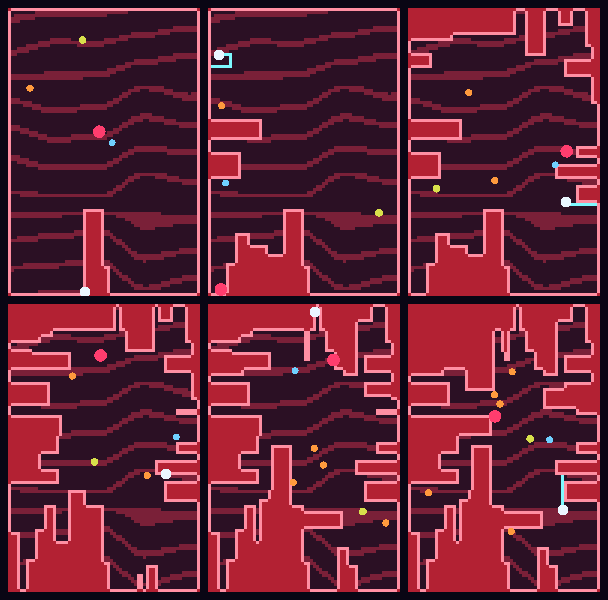
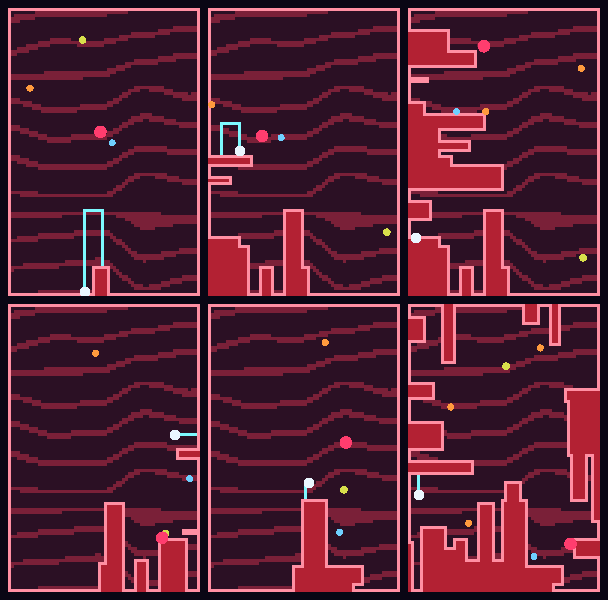
Köşelerde takılmayı düzelt: çaprazdan boşluğa değen hücre de kenar
Gemi yalnızca kenar hücrelerinde yürüyor, ama kenar tanımı yalnızca dört
komşuya bakıyordu. Boşluğa sadece çaprazdan değen dolu hücreler kenar
sayılmadığı için iki takılma vardı:

- Alan kapatılınca: iz çerçeveye inip kapandığında o çerçeve hücresinin dört
  komşusu da doluydu, "kenar değil" sayılıp gemi en yakın kenara — izin bir
  hücre yukarısına — ışınlanıyordu. Oradan çerçeve boyunca 90° dönmek boş
  dokuya dalış sayıldığından engelleniyor, önce çapraz bir adım gerekiyordu.
- İç köşelerde: duvara doğru yürüyen gemi köşe hücresine giremiyor, köşeden
  bir önce duruyor ve duvar boyunca yukarı dönemiyordu.

Field.isEdge artık sekiz komşuya bakıyor. Bloğun içi (sekiz komşusu da dolu)
hâlâ yürünemez, köşeden çapraz dalışla boşluğa sızmak da hâlâ engelli.

Doğrulama: 89 test (yeni 3: kapatma sonrası gemi çerçevede kalır ve dalışsız
iki yöne de gider; iç köşeye varıp 90° dönerek duvar boyunca çıkar; köşe
hücresinden çapraz dalış engellenir). 60 saniyelik rastgele oynanışın
"gemi hep kenarda" değişmezi geçiyor. Chromium'da aynı akış oynandı: kapatmadan
sonra ışın tuşu olmadan sağa basınca gemi çerçeve boyunca ilerliyor.

Claude-Session: https://claude.ai/code/session_01DRAZrbunHqZa1CoRwy9SQG

diff --git a/src/engine/__tests__/game.test.ts b/src/engine/__tests__/game.test.ts
@@ -211,6 +211,70 @@ test('kapatma gemiyi içeride bırakırsa kenara çekilir', () => {
   );
 });
 
+test('alanı kapatan gemi çerçevede kalır ve hemen çerçeve boyunca gidebilir', () => {
+  const game = new Game({ width: 20, height: 20, seed: 1 });
+  game.start();
+  game.enemies = [makeEnemy('boss', 4.5, 4.5)];
+
+  // Yukarı 4, sağa 3, aşağı 4: iz alt çerçeveye inip kapanır.
+  stepMany(game, { dx: 0, dy: -1 }, 4);
+  stepMany(game, { dx: 1, dy: 0 }, 3);
+  const events = stepMany(game, { dx: 0, dy: 1 }, 4);
+
+  assert.equal(eventsOfType(events, 'capture').length, 1);
+  assert.equal(game.player.x, 13);
+  assert.equal(game.player.y, 19, 'kapatma sonrası gemi başka hücreye ışınlanmamalı');
+
+  // Dalış tuşu olmadan, 90° dönüp yeni sınırın iki kolu boyunca gidebilmeli:
+  // çerçeve boyunca sağa ve kapatılan bloğun kenarı boyunca yukarı.
+  stepOnce(game, { dx: 1, dy: 0, dive: false });
+  assert.deepEqual([game.player.x, game.player.y], [14, 19], 'sağa çerçeve boyunca');
+  stepOnce(game, { dx: -1, dy: 0, dive: false });
+  stepMany(game, { dx: 0, dy: -1, dive: false }, 2);
+  assert.deepEqual([game.player.x, game.player.y], [13, 17], 'yukarı bloğun kenarı boyunca');
+  assert.equal(game.player.drawing, false);
+
+  // Kapatılan bloğun altındaki çerçeve artık bloğun içi: oraya yürünmez.
+  assert.equal(game.field.isEdge(12, 19), false);
+});
+
+test('iç köşede gemi köşeye varır ve 90° dönüp duvar boyunca ilerler', () => {
+  const game = new Game({ width: 20, height: 20, seed: 1 });
+  game.start();
+  game.enemies = [makeEnemy('boss', 4.5, 4.5)];
+  // L biçimli bölge: alt blok + sağda yükselen duvar.
+  for (let y = 14; y < 19; y++) for (let x = 1; x < 19; x++) game.field.set(x, y, FILLED);
+  for (let y = 5; y < 14; y++) for (let x = 12; x < 19; x++) game.field.set(x, y, FILLED);
+  game.player.x = 8;
+  game.player.y = 14;
+
+  assert.equal(game.field.isEdge(12, 14), true, 'iç köşe hücresi kenar sayılmalı');
+  assert.equal(game.field.isEdge(13, 15), false, 'bloğun içi kenar değil');
+
+  stepMany(game, { dx: 1, dy: 0, dive: false }, 6);
+  assert.deepEqual([game.player.x, game.player.y], [12, 14], 'köşeye kadar gidebilmeli');
+
+  stepMany(game, { dx: 0, dy: -1, dive: false }, 3);
+  assert.deepEqual([game.player.x, game.player.y], [12, 11], 'duvar boyunca yukarı çıkabilmeli');
+  assert.equal(game.player.drawing, false, 'bu yürüyüş dalış değil');
+});
+
+test('köşe hücresinden çapraz dalışla boşluğa sızılamaz', () => {
+  const game = new Game({ width: 20, height: 20, seed: 1 });
+  game.start();
+  game.enemies = [makeEnemy('boss', 4.5, 4.5)];
+  for (let y = 14; y < 19; y++) for (let x = 1; x < 19; x++) game.field.set(x, y, FILLED);
+  for (let y = 5; y < 14; y++) for (let x = 12; x < 19; x++) game.field.set(x, y, FILLED);
+  game.player.x = 12;
+  game.player.y = 14;
+
+  // Sol üst çapraz boş, ama iki yanı da dolu: köşeden geçilemez.
+  stepOnce(game, { dx: -1, dy: -1 });
+
+  assert.deepEqual([game.player.x, game.player.y], [12, 14]);
+  assert.equal(game.player.drawing, false);
+});
+
 test('kendi izine girmek canı götürür', () => {
   const game = setupGame();
   stepMany(game, { dx: 0, dy: -1 }, 5); // yukarı: (8,14)...(8,10)

diff --git a/src/engine/field.ts b/src/engine/field.ts
@@ -73,14 +73,24 @@ export class Field {
   /**
    * Dolu hücre boş alana (veya ize) komşu mu? Gemi yalnızca bu kenar
    * hücrelerinde yürür; ele geçirilmiş bloğun içine giremez.
+   *
+   * Çapraz komşular da sayılır: iç köşedeki hücre boşluğa yalnızca çaprazdan
+   * değer. Onu kenar saymazsak gemi köşeye varamadan durur ve 90° dönüp duvar
+   * boyunca ilerleyemez; kapatmanın bittiği çerçeve hücresi de kenar sayılmaz
+   * ve gemi beklenmedik bir hücreye çekilir.
    */
   isEdge(x: number, y: number): boolean {
     if (!this.inBounds(x, y) || this.cells[this.idx(x, y)] !== FILLED) return false;
     const { w, h, cells } = this;
-    if (x > 0 && cells[y * w + x - 1] !== FILLED) return true;
-    if (x < w - 1 && cells[y * w + x + 1] !== FILLED) return true;
-    if (y > 0 && cells[(y - 1) * w + x] !== FILLED) return true;
-    if (y < h - 1 && cells[(y + 1) * w + x] !== FILLED) return true;
+    for (let dy = -1; dy <= 1; dy++) {
+      const ny = y + dy;
+      if (ny < 0 || ny >= h) continue;
+      for (let dx = -1; dx <= 1; dx++) {
+        const nx = x + dx;
+        if ((dx === 0 && dy === 0) || nx < 0 || nx >= w) continue;
+        if (cells[ny * w + nx] !== FILLED) return true;
+      }
+    }
     return false;
   }
 
